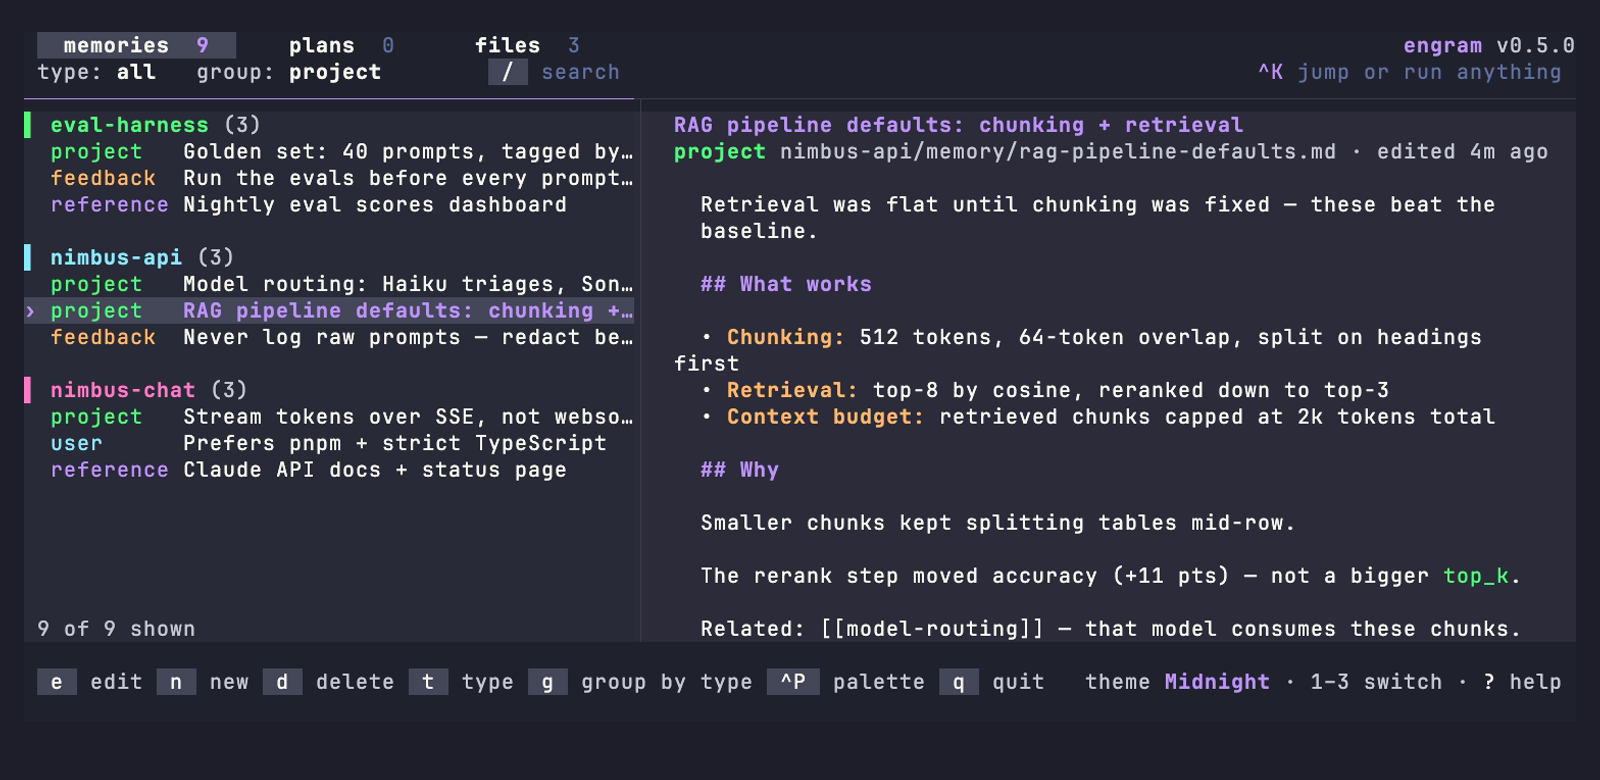
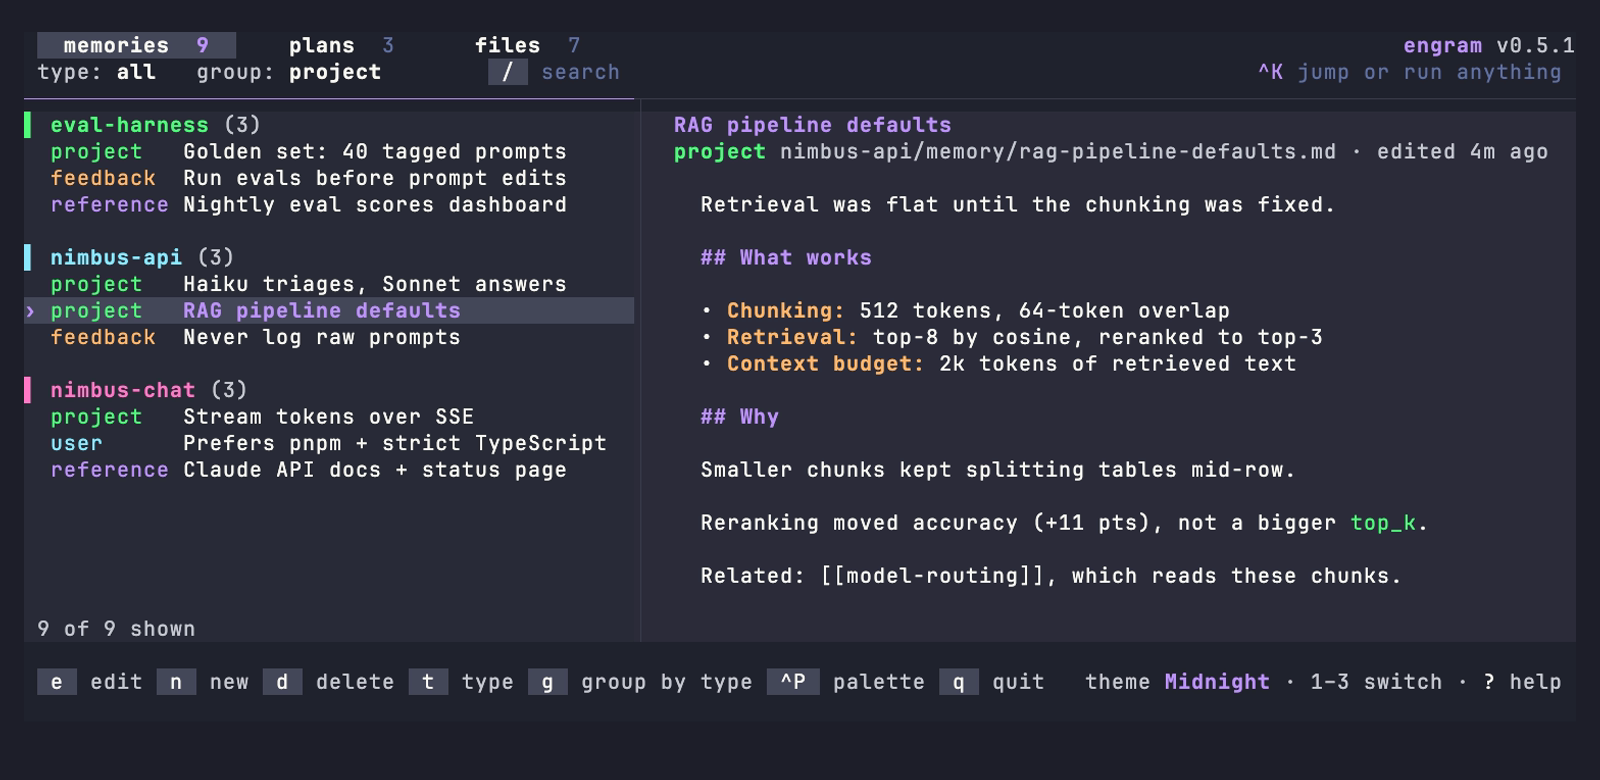
docs: recapture the README screenshot over fuller demo data
The old capture was stamped v0.5.0, truncated six of its nine memory titles
and read `plans 0` / `files 3` — an app that looked half-empty and a version
behind. Rewrite the fictional fixtures so the memories fit the panes, and
stage plans and instruction files too, so every header counter shows real
content.

Correct two claims about the app that the demo notes had wrong: `Down` steps
over memory rows only, skipping headers and spacers, and a project's memories
sort by type and then title — MEMORY.md sets no order at all, it is read only
to supply a title or hook a file itself is missing. Name the tape settings the
~33 and ~62 character budgets derive from, and record that the project rule
files live outside the fake home, so a clean checkout silently drops `files`
from 7 to 4.

diff --git a/docs/demo/README.md b/docs/demo/README.md
@@ -1,8 +1,10 @@
 # Regenerating the README screenshot
 
 `../tui.png` is a real capture of the TUI over the staged, fictional demo data
-in `setup.sh` (an imaginary AI app — every project and memory here is made up).
-Re-run it after any UI change so the screenshot never drifts from the app.
+in `setup.sh` — an imaginary AI product ("nimbus"), its eval harness, and the
+memories, plans and instruction files a team would actually accumulate around
+them. Every project, path and dashboard name is made up. Re-run it after any UI
+change so the screenshot never drifts from the app.
 
 Requires [vhs](https://github.com/charmbracelet/vhs) (`brew install vhs`).
 
@@ -13,26 +15,49 @@ cd docs/demo
 # clipped mid-string in the capture.
 go build -ldflags "-s -w -X main.version=v0.5.1" -o engram ../..
 bash setup.sh              # stage the fictional demo home
-find home -name "*.md" -exec touch -A -000400 {} +   # see the stamp note below
+find home src -name "*.md" -exec touch -A -000400 {} +   # see the stamp note below
 vhs tui.tape               # drive the TUI, write tui.png
 cp tui.png ../tui.png      # promote the new capture
 ```
 
-**Look at the PNG before promoting it.** Two things go wrong quietly, and both
-were caught only by looking at the `v0.4.0` capture rather than trusting it:
+**Look at the PNG before promoting it.** Four things go wrong quietly, and each
+was caught only by looking at a capture rather than trusting it:
 
-- **vhs drops a glyph now and then.** One run lost the em dash from
-  "(+11 pts) — not a bigger `top_k`" and the very next run rendered it. engram
-  emitted the character both times — it is present in `View()` — so this is a
-  ttyd/font painting flake, not an app bug. The fix is to eyeball the capture and
-  re-run if a character is missing.
+- **vhs drops a glyph now and then.** A `v0.4.0` run lost the em dash from a
+  fixture line that the very next run rendered fine. engram emitted the character
+  both times — it is present in `View()` — so this is a ttyd/font painting flake,
+  not an app bug. The fix is to eyeball the capture and re-run if a character is
+  missing.
 - **Capturing straight after `setup.sh` reads "edited just now"**, which is long
   enough to truncate to "edited just …" in the preview meta. `setup.sh` writes the
   fixtures at the current time and nothing backdates them, so the `touch -A -000400`
   above winds every fixture back four minutes and the stamp reads "4m ago" on the
   first run. Waiting works too, but the stamp then depends on how long you waited;
   backdating makes consecutive captures differ only where the app does.
+- **A title longer than ~33 characters truncates in the list pane**, and a
+  preview line longer than ~62 characters wraps. Neither number is a property of
+  the app: both fall out of `tui.tape`'s `Set Width 1600` and `Set FontSize 20`,
+  so changing either moves them and the fixtures need re-measuring. Both renders
+  are honest, but a screenshot full of "…" sells the app short, so the memory
+  fixtures are written to fit. Widening the tape instead would shrink the text in
+  the README.
+- **Every tab in the header is part of the screenshot.** `setup.sh` stages plans
+  and instruction files as well as memories precisely so `plans` and `files` do
+  not read `0` — an empty counter looks like a feature that does not work.
+- **The project rule files live outside the fake home**, in `src/<project>/`, and
+  engram reaches them by decoding each project key back to a real path. `src/` is
+  gitignored and disposable, so a `git clean -xdf` or a fresh checkout leaves the
+  three project `CLAUDE.md` files unreadable and `files` silently drops from 7 to
+  4. Always re-run `setup.sh` immediately before capturing.
 
-The tape selects the "RAG pipeline defaults" memory (`Down 4`); if `setup.sh`'s
-fixtures change, recount the rows and adjust. Generated artifacts (`engram`,
-`home/`, `src/`, `demo.gif`, `tui.png`) are gitignored.
+The tape selects the "RAG pipeline defaults" memory (`Down 4`). **`Down` steps
+between memory rows only** — project headers and the blank row between groups are
+skipped — so count memories, not screen lines. Within a project, **memories sort
+by type (project, feedback, user, reference) and then alphabetically by title**;
+`MEMORY.md` sets no order at all, and is read only to supply a title or hook that
+a file itself is missing. So renaming a memory's heading, or changing its
+`metadata.type`, re-anchors the tape silently. If `setup.sh`'s fixtures change,
+recount and adjust.
+Generated artifacts (`engram`, `home/`, `src/`, `demo.gif`, `tui.png`) are
+gitignored, which is also what keeps the real local paths encoded in
+`home/.claude/projects/` out of the repo.

diff --git a/CHANGELOG.md b/CHANGELOG.md
@@ -11,6 +11,16 @@ and this project adheres to [Semantic Versioning](https://semver.org/spec/v2.0.0
 ## [Unreleased]
 
 ### Documentation
+- **The README screenshot is a fresh capture, over simpler demo data.** The old one was
+  stamped `v0.5.0` and showed six of its nine memory titles truncated with an ellipsis,
+  `plans 0` and `files 3` — an app that looked half-empty and a version behind. The
+  fictional fixtures in `docs/demo/setup.sh` are rewritten so the memories fit the panes
+  (no truncated title, no wrapped preview line) and now stage plans and instruction files
+  too, so every header counter shows real content. They stay entirely made up: an imaginary
+  AI product, its eval harness, and the memories a team would keep about routing, retrieval
+  and evals. `docs/demo/README.md` records the traps that cost a capture each, alongside
+  the ones already known: `Down` steps over memory rows only, and a project's memories sort
+  by type and then title, so `MEMORY.md` never sets the order.
 - **README explains the macOS quarantine prompt on downloaded binaries.** The release
   archives are unsigned and unnotarized, so a browser-downloaded one is quarantined and
   Gatekeeper blocks the binary after extraction: Finder says Apple could not verify it is
